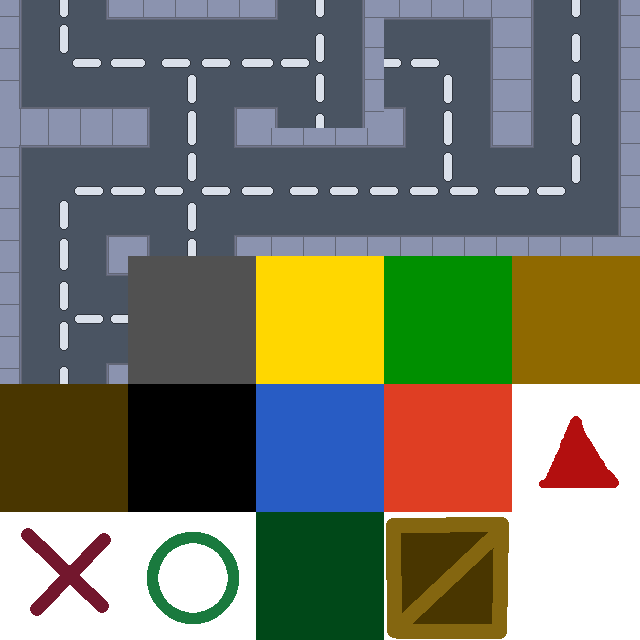
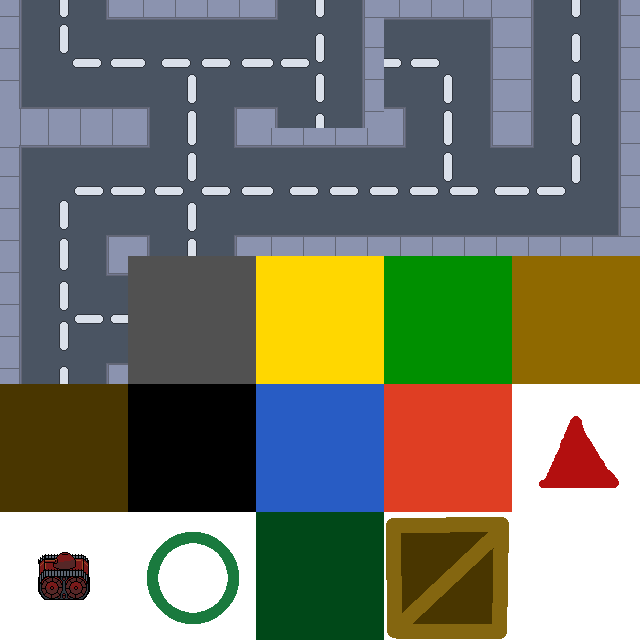
Ennemy tiled

Changed region(s): [[0.0312, 0.8125, 0.1875, 0.9688]]

diff --git a/main - Copie.html b/main - Copie.html
@@ -169,6 +169,10 @@
                     "Calque de Tuiles 1",
                     tileset
                 );
+                const mapEnnemis = carte.getObjectLayer('Ennemis');
+                mapEnnemis.objects.forEach(enObj =>{
+                this.Ennemi.get(enObj.x,enObj.y,'perso')
+                })
 
                 this.add.image(400, 300, 'sky');
 
